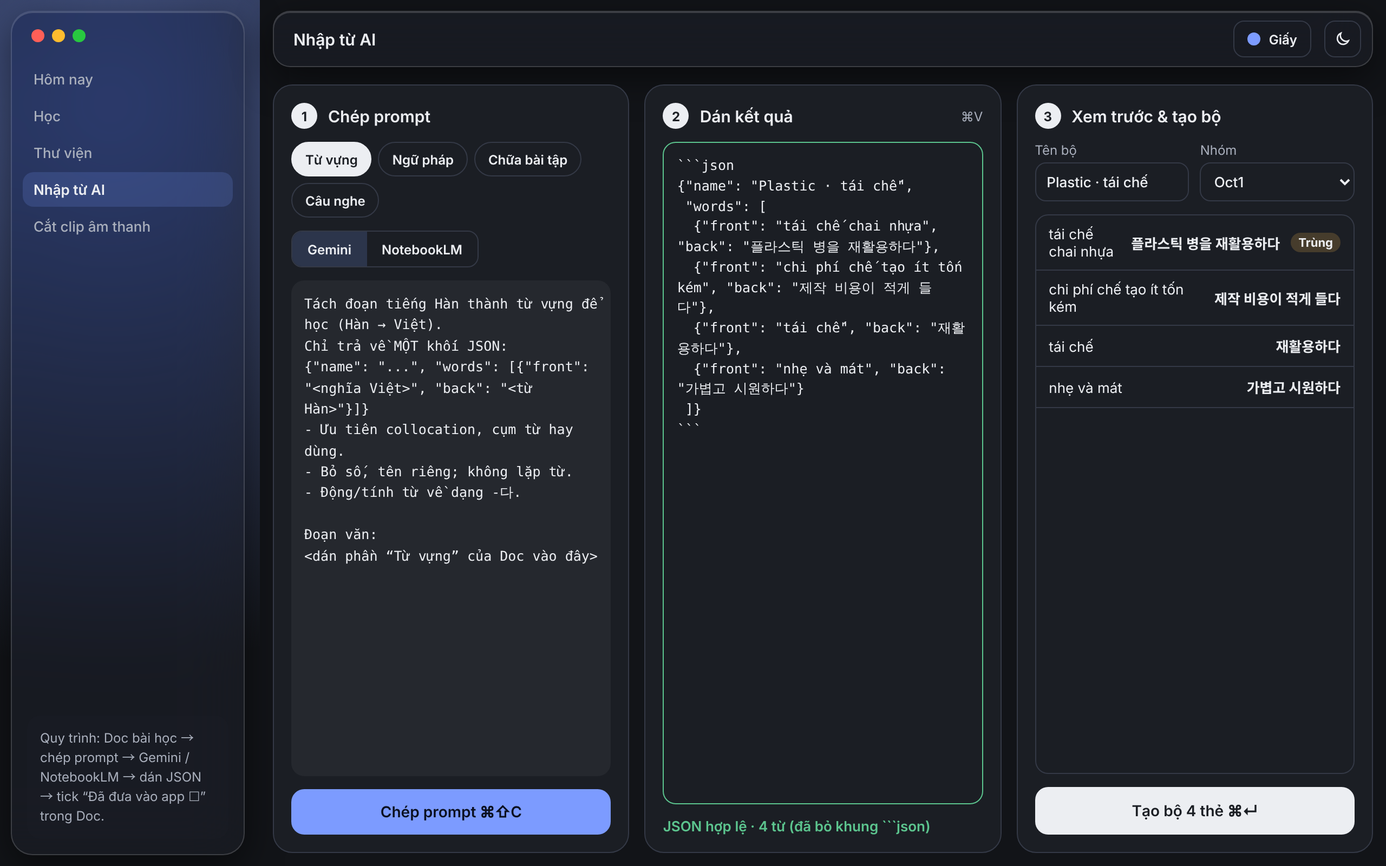
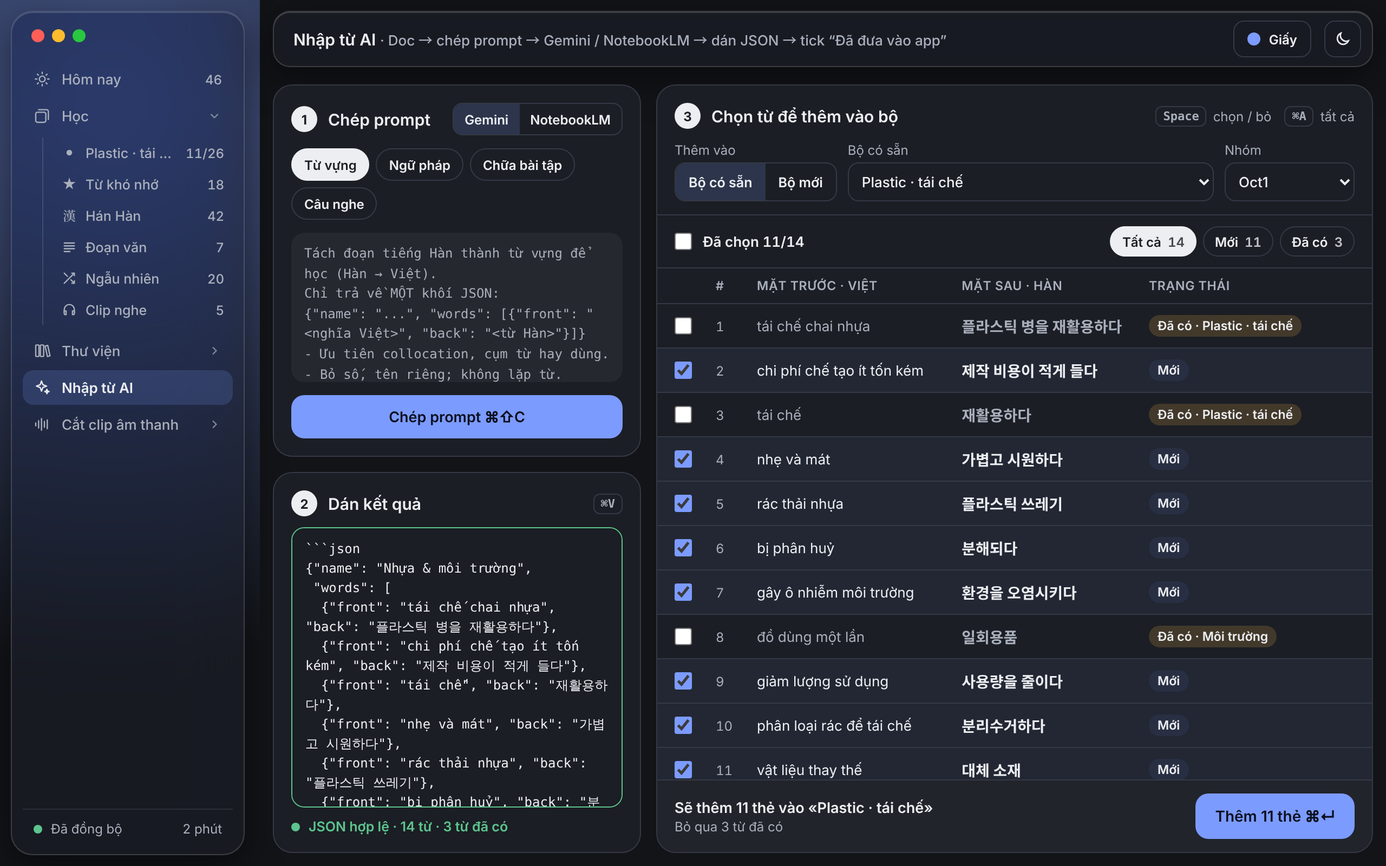
T2.39: cập nhật màn Nhập từ AI — tick chọn từ trước khi thêm vào bộ (#4)
Chụp lại Mac-Import (sáng/tối) + nguồn từ prototype mới; mô tả lại T2.39.

Claude-Session: https://claude.ai/code/session_01KeZ5oUxBK4cehoikW7uz6r

diff --git a/design/prototype/src/Mac-Import.dc.html b/design/prototype/src/Mac-Import.dc.html
@@ -15,72 +15,148 @@ a{color:inherit}
 button{cursor:pointer}
 .glass{background:var(--glass);backdrop-filter:blur(26px) saturate(180%);-webkit-backdrop-filter:blur(26px) saturate(180%);border:1px solid var(--gb);box-shadow:var(--sh),inset 0 1px 0 var(--gb)}
 .desk{background:radial-gradient(circle at 8% 12%,color-mix(in srgb,var(--ac) 50%,transparent),transparent 38%),radial-gradient(circle at 92% 88%,color-mix(in srgb,var(--flag) 40%,transparent),transparent 45%),var(--bg)}
-.nav{display:flex;align-items:center;gap:10px;padding:8px 10px;border-radius:10px;font-size:13px;font-weight:500;color:var(--ink2);text-decoration:none}
+.nav{position:relative;display:flex;align-items:center;gap:10px;width:100%;box-sizing:border-box;height:32px;padding:0 10px;border:0;border-radius:10px;background:transparent;font:500 13px Inter,'Noto Sans KR',sans-serif;color:var(--ink2);text-decoration:none;text-align:left}
+.nav svg{flex:none}
+.nav .l{flex:1;min-width:0;white-space:nowrap;overflow:hidden;text-overflow:ellipsis}
+.nav .n{font-size:12px;font-weight:500;font-variant-numeric:tabular-nums;color:var(--ink2)}
+.nav .chev{display:flex;color:var(--ink2);opacity:.7}
 .nav.on{background:color-mix(in srgb,var(--ac) 18%,transparent);color:var(--ink);font-weight:600}
+.sub{display:flex;flex-direction:column;gap:1px;margin:2px 0 6px 18px;padding-left:9px;border-left:1px solid color-mix(in srgb,var(--ink) 14%,transparent)}
+.sub .nav{height:28px;padding:0 8px;gap:8px;font-size:12.5px}
+.sub .g{width:14px;flex:none;display:flex;justify-content:center;font-size:12px;line-height:1}
+.sub .nav.on{background:color-mix(in srgb,var(--ink) 6%,transparent);color:var(--ink);font-weight:600}
+.sub .nav.on::before{content:"";position:absolute;left:-10px;top:7px;width:2px;height:14px;border-radius:2px;background:var(--ac)}
 .card{background:var(--sf);border:1px solid var(--line);border-radius:18px}
 .step{width:24px;height:24px;border-radius:99px;background:var(--ink);color:var(--sf);font-size:12px;font-weight:700;display:flex;align-items:center;justify-content:center}
+.kbd{font:600 11px ui-monospace,Menlo,monospace;padding:2px 6px;border-radius:6px;border:1px solid var(--line);color:var(--ink2)}
+.row{display:grid;grid-template-columns:28px 28px minmax(0,1.1fr) minmax(0,1fr) 190px;align-items:center;gap:10px;padding:0 16px;height:40px;border-bottom:1px solid var(--line);font-size:13px;cursor:pointer}
+.row.head{position:sticky;top:0;z-index:1;height:32px;background:var(--sf);cursor:default;font-size:11.5px;font-weight:600;color:var(--ink2);text-transform:uppercase;letter-spacing:.03em}
+.ck{width:16px;height:16px;margin:0;accent-color:var(--ac);cursor:pointer}
+.badge{display:inline-block;max-width:100%;box-sizing:border-box;padding:3px 8px;border-radius:999px;font-size:11.5px;font-weight:600;white-space:nowrap;overflow:hidden;text-overflow:ellipsis;vertical-align:middle}
+/* Chữ trong nút không bao giờ xuống dòng */
+button,.nav,.kbd,a[style*="height:"]{white-space:nowrap}
+button,a[style*="height:"]{flex-shrink:0}
+button>span{min-width:0;overflow:hidden;text-overflow:ellipsis}
 </style>
 </helmet>
 <div class="desk" style="{{vars}}; position: relative; width: 1280px; height: 800px; box-sizing: border-box; color: var(--ink); font-family: Inter, 'Noto Sans KR', sans-serif; overflow: hidden;">
   <div style="position: absolute; left: 240px; right: 0; top: 0; bottom: 0; background: var(--bg);"></div>
 
-  <nav aria-label="Điều hướng" class="glass" style="position: absolute; left: 10px; top: 10px; bottom: 10px; width: 216px; box-sizing: border-box; border-radius: 20px; padding: 14px 10px; display: flex; flex-direction: column; gap: 2px;">
+  <nav aria-label="Điều hướng" class="glass" style="position: absolute; left: 10px; top: 10px; bottom: 10px; width: 216px; box-sizing: border-box; border-radius: 20px; padding: 14px 10px; display: flex; flex-direction: column; gap: 2px; overflow: hidden;">
     <div style="display: flex; gap: 7px; padding: 2px 8px 16px;"><span style="width: 12px; height: 12px; border-radius: 99px; background: #FF5F57;"></span><span style="width: 12px; height: 12px; border-radius: 99px; background: #FEBC2E;"></span><span style="width: 12px; height: 12px; border-radius: 99px; background: #28C840;"></span></div>
-    <a class="nav" href="Mac-Today.dc.html">Hôm nay</a>
-    <a class="nav" href="Mac-Study.dc.html">Học</a>
-    <a class="nav" href="Mac-Library.dc.html">Thư viện</a>
-    <a class="nav on" href="Mac-Import.dc.html">Nhập từ AI</a>
-    <a class="nav" href="Mac-Audio.dc.html">Cắt clip âm thanh</a>
-    <div style="margin-top: auto; margin-inline: 4px; padding: 12px; border-radius: 12px; background: color-mix(in srgb, var(--sf) 55%, transparent); font-size: 12px; line-height: 1.5; color: var(--ink2);">Quy trình: Doc bài học → chép prompt → Gemini / NotebookLM → dán JSON → tick “Đã đưa vào app ☐” trong Doc.</div>
+    <a class="nav" href="Mac-Today.dc.html"><svg width="16" height="16" viewBox="0 0 24 24" fill="none" stroke="currentColor" stroke-width="1.8" stroke-linecap="round" stroke-linejoin="round" aria-hidden="true"><circle cx="12" cy="12" r="4"></circle><path d="M12 2.5v2M12 19.5v2M5.3 5.3l1.4 1.4M17.3 17.3l1.4 1.4M2.5 12h2M19.5 12h2M5.3 18.7l1.4-1.4M17.3 6.7l1.4-1.4"></path></svg><span class="l">Hôm nay</span><span class="n">46</span></a>
+    <a class="nav" href="Mac-Study.dc.html"><svg width="16" height="16" viewBox="0 0 24 24" fill="none" stroke="currentColor" stroke-width="1.8" stroke-linecap="round" stroke-linejoin="round" aria-hidden="true"><rect x="3" y="7" width="14" height="14" rx="2.5"></rect><path d="M7 3.5h11a2.5 2.5 0 0 1 2.5 2.5v11"></path></svg><span class="l">Học</span><span class="chev"><svg width="14" height="14" viewBox="0 0 24 24" fill="none" stroke="currentColor" stroke-width="2" stroke-linecap="round" stroke-linejoin="round" aria-hidden="true"><path d="M7 10l5 5 5-5"></path></svg></span></a>
+    <div class="sub" role="group" aria-label="Bộ đang học và bộ ảo">
+      <a class="nav" href="Mac-Study.dc.html"><span class="g"><svg width="14" height="14" viewBox="0 0 24 24" fill="none" stroke="currentColor" stroke-width="2" stroke-linecap="round" stroke-linejoin="round" aria-hidden="true"><circle cx="12" cy="12" r="3.5" fill="currentColor"></circle></svg></span><span class="l">Plastic · tái chế</span><span class="n">11/26</span></a>
+      <a class="nav" href="Mac-Study.dc.html"><span class="g">★</span><span class="l">Từ khó nhớ</span><span class="n">18</span></a>
+      <a class="nav" href="Mac-Study.dc.html"><span class="g"><span style="font-family: 'Noto Serif KR', serif;">漢</span></span><span class="l">Hán Hàn</span><span class="n">42</span></a>
+      <a class="nav" href="Mac-Study.dc.html"><span class="g"><svg width="14" height="14" viewBox="0 0 24 24" fill="none" stroke="currentColor" stroke-width="2" stroke-linecap="round" stroke-linejoin="round" aria-hidden="true"><path d="M4 6h16M4 10.5h16M4 15h16M4 19.5h9"></path></svg></span><span class="l">Đoạn văn</span><span class="n">7</span></a>
+      <a class="nav" href="Mac-Study.dc.html"><span class="g"><svg width="14" height="14" viewBox="0 0 24 24" fill="none" stroke="currentColor" stroke-width="2" stroke-linecap="round" stroke-linejoin="round" aria-hidden="true"><path d="M16 4h4v4M4 20L20 4M20 16v4h-4M14.5 14.5L20 20M4 4l5 5"></path></svg></span><span class="l">Ngẫu nhiên</span><span class="n">20</span></a>
+      <a class="nav" href="Mac-Study.dc.html"><span class="g"><svg width="14" height="14" viewBox="0 0 24 24" fill="none" stroke="currentColor" stroke-width="2" stroke-linecap="round" stroke-linejoin="round" aria-hidden="true"><path d="M4 17v-5a8 8 0 0 1 16 0v5"></path><path d="M20 18a2 2 0 0 1-2 2h-1v-6h3zM4 18a2 2 0 0 0 2 2h1v-6H4z"></path></svg></span><span class="l">Clip nghe</span><span class="n">5</span></a>
+    </div>
+    <a class="nav" href="Mac-Library.dc.html"><svg width="16" height="16" viewBox="0 0 24 24" fill="none" stroke="currentColor" stroke-width="1.8" stroke-linecap="round" stroke-linejoin="round" aria-hidden="true"><rect x="3" y="4" width="4.5" height="16" rx="1"></rect><rect x="9.5" y="4" width="4.5" height="16" rx="1"></rect><path d="M16 5.6l3.6-1 3.2 14.4-3.6 1z"></path></svg><span class="l">Thư viện</span><span class="chev"><svg width="14" height="14" viewBox="0 0 24 24" fill="none" stroke="currentColor" stroke-width="2" stroke-linecap="round" stroke-linejoin="round" aria-hidden="true"><path d="M10 7l5 5-5 5"></path></svg></span></a>
+    <a class="nav on" href="Mac-Import.dc.html" aria-current="page"><svg width="16" height="16" viewBox="0 0 24 24" fill="none" stroke="currentColor" stroke-width="1.8" stroke-linecap="round" stroke-linejoin="round" aria-hidden="true"><path d="M11 3l1.9 5.1L18 10l-5.1 1.9L11 17l-1.9-5.1L4 10l5.1-1.9z"></path><path d="M18.5 14.5l.8 2.2 2.2.8-2.2.8-.8 2.2-.8-2.2-2.2-.8 2.2-.8z"></path></svg><span class="l">Nhập từ AI</span></a>
+    <a class="nav" href="Mac-Audio.dc.html"><svg width="16" height="16" viewBox="0 0 24 24" fill="none" stroke="currentColor" stroke-width="1.8" stroke-linecap="round" stroke-linejoin="round" aria-hidden="true"><path d="M3 10v4M7 7v10M11 4v16M15 8v8M19 6v12"></path></svg><span class="l">Cắt clip âm thanh</span><span class="chev"><svg width="14" height="14" viewBox="0 0 24 24" fill="none" stroke="currentColor" stroke-width="2" stroke-linecap="round" stroke-linejoin="round" aria-hidden="true"><path d="M10 7l5 5-5 5"></path></svg></span></a>
+    <div style="margin-top: auto; padding: 10px 10px 2px; border-top: 1px solid color-mix(in srgb, var(--ink) 10%, transparent); font-size: 12px; color: var(--ink2); display: flex; align-items: center; gap: 8px;"><span style="width: 8px; height: 8px; border-radius: 99px; background: var(--ok);"></span><span style="flex: 1;">Đã đồng bộ</span><span style="font-variant-numeric: tabular-nums;">2 phút</span></div>
   </nav>
 
   <header class="glass" style="position: absolute; left: 252px; right: 12px; top: 10px; height: 52px; box-sizing: border-box; border-radius: 16px; padding: 0 10px 0 18px; display: flex; align-items: center; gap: 12px;">
-    <div style="flex: 1; font-size: 15px; font-weight: 600;">Nhập từ AI</div>
+    <div style="flex: 1; min-width: 0; font-size: 15px; font-weight: 600; white-space: nowrap; overflow: hidden; text-overflow: ellipsis;">Nhập từ AI <span style="font-size: 13px; font-weight: 500; color: var(--ink2);">· Doc → chép prompt → Gemini / NotebookLM → dán JSON → tick “Đã đưa vào app”</span></div>
     <button onClick="{{nextTheme}}" aria-label="Đổi theme" style="height: 34px; padding: 0 12px; border-radius: 10px; border: 1px solid var(--line); background: transparent; color: var(--ink); font: 600 12px Inter, sans-serif; display: flex; align-items: center; gap: 8px;"><span style="width: 12px; height: 12px; border-radius: 99px; background: var(--ac);"></span>{{themeName}}</button>
     <button onClick="{{toggleDark}}" aria-label="Sáng / tối" style="width: 34px; height: 34px; border-radius: 10px; border: 1px solid var(--line); background: transparent; color: var(--ink); display: flex; align-items: center; justify-content: center;"><svg width="16" height="16" viewBox="0 0 24 24" fill="none" stroke="currentColor" stroke-width="2" stroke-linecap="round" aria-hidden="true"><path d="M20 14.5A8 8 0 0 1 9.5 4a8 8 0 1 0 10.5 10.5z"></path></svg></button>
   </header>
 
-  <main style="position: absolute; left: 252px; right: 12px; top: 78px; bottom: 12px; display: grid; grid-template-columns: repeat(3, minmax(0, 1fr)); gap: 14px;">
-    <section class="card" style="padding: 16px; display: flex; flex-direction: column; gap: 12px; min-height: 0;">
-      <div style="display: flex; align-items: center; gap: 10px;"><span class="step">1</span><h2 style="margin: 0; font-size: 15px; font-weight: 600;">Chép prompt</h2></div>
-      <div role="group" aria-label="Loại nội dung" style="display: flex; flex-wrap: wrap; gap: 6px;">
-        <sc-for list="{{kinds}}" as="k" hint-placeholder-count="4">
-          <button onClick="{{k.pick}}" aria-pressed="{{k.on}}" style="height: 32px; padding: 0 12px; border-radius: 999px; border: 1px solid {{k.border}}; background: {{k.bg}}; color: {{k.ink}}; font: 600 12px Inter, sans-serif;">{{k.label}}</button>
-        </sc-for>
-      </div>
-      <div role="group" aria-label="Công cụ AI" style="display: flex; border: 1px solid var(--line); border-radius: 10px; overflow: hidden; align-self: flex-start;">
-        <sc-for list="{{tools}}" as="t" hint-placeholder-count="2">
-          <button onClick="{{t.pick}}" aria-pressed="{{t.on}}" style="height: 32px; padding: 0 14px; border: 0; background: {{t.bg}}; color: var(--ink); font: 600 12px Inter, sans-serif;">{{t.label}}</button>
-        </sc-for>
-      </div>
-      <div style="flex: 1; min-height: 0; overflow-y: auto; font-size: 12.5px; line-height: 1.55; background: color-mix(in srgb, var(--ink) 5%, var(--sf)); border-radius: 12px; padding: 12px; white-space: pre-line; font-family: ui-monospace, Menlo, monospace;">{{promptText}}</div>
-      <button onClick="{{copy}}" style="height: 42px; border-radius: 12px; border: 0; background: {{copyBg}}; color: var(--on); font: 600 14px Inter, sans-serif;">{{copyLabel}}</button>
-    </section>
+  <main style="position: absolute; left: 252px; right: 12px; top: 78px; bottom: 12px; display: grid; grid-template-columns: 340px minmax(0, 1fr); gap: 14px;">
+    <div style="display: flex; flex-direction: column; gap: 14px; min-height: 0;">
+      <section class="card" style="padding: 16px; display: flex; flex-direction: column; gap: 12px; flex: none;">
+        <div style="display: flex; align-items: center; gap: 10px;"><span class="step">1</span><h2 style="margin: 0; font-size: 15px; font-weight: 600;">Chép prompt</h2>
+          <div role="group" aria-label="Công cụ AI" style="margin-left: auto; display: flex; border: 1px solid var(--line); border-radius: 9px; overflow: hidden;">
+            <sc-for list="{{tools}}" as="t" hint-placeholder-count="2">
+              <button onClick="{{t.pick}}" aria-pressed="{{t.on}}" style="height: 28px; padding: 0 10px; border: 0; background: {{t.bg}}; color: var(--ink); font: 600 12px Inter, sans-serif;">{{t.label}}</button>
+            </sc-for>
+          </div>
+        </div>
+        <div role="group" aria-label="Loại nội dung" style="display: flex; flex-wrap: wrap; gap: 6px;">
+          <sc-for list="{{kinds}}" as="k" hint-placeholder-count="4">
+            <button onClick="{{k.pick}}" aria-pressed="{{k.on}}" style="height: 30px; padding: 0 11px; border-radius: 999px; border: 1px solid {{k.border}}; background: {{k.bg}}; color: {{k.ink}}; font: 600 12px Inter, sans-serif;">{{k.label}}</button>
+          </sc-for>
+        </div>
+        <div style="height: 118px; overflow-y: auto; font-size: 12px; line-height: 1.55; background: color-mix(in srgb, var(--ink) 5%, var(--sf)); border-radius: 12px; padding: 10px 12px; white-space: pre-line; font-family: ui-monospace, Menlo, monospace; color: var(--ink2);">{{promptText}}</div>
+        <button onClick="{{copy}}" style="height: 40px; border-radius: 12px; border: 0; background: {{copyBg}}; color: var(--on); font: 600 13.5px Inter, sans-serif;">{{copyLabel}}</button>
+      </section>
 
-    <section class="card" style="padding: 16px; display: flex; flex-direction: column; gap: 12px; min-height: 0;">
-      <div style="display: flex; align-items: center; gap: 10px;"><span class="step">2</span><h2 style="margin: 0; font-size: 15px; font-weight: 600;">Dán kết quả</h2><span style="margin-left: auto; font-size: 12px; color: var(--ink2);">⌘V</span></div>
-      <textarea spellcheck="false" aria-label="JSON từ AI" value="{{json}}" onChange="{{onJson}}" style="flex: 1; min-height: 0; box-sizing: border-box; border-radius: 12px; border: 1.5px solid {{jsonBorder}}; background: var(--sf); color: var(--ink); padding: 12px; font: 400 12.5px/1.5 ui-monospace, Menlo, monospace; resize: none;"></textarea>
-      <div style="font-size: 13px; font-weight: 600; color: {{jsonInk}};">{{jsonStatus}}</div>
-    </section>
+      <section class="card" style="padding: 16px; display: flex; flex-direction: column; gap: 10px; flex: 1; min-height: 0;">
+        <div style="display: flex; align-items: center; gap: 10px;"><span class="step">2</span><h2 style="margin: 0; font-size: 15px; font-weight: 600;">Dán kết quả</h2><span class="kbd" style="margin-left: auto;">⌘V</span></div>
+        <textarea spellcheck="false" aria-label="JSON từ AI" value="{{json}}" onChange="{{onJson}}" style="flex: 1; min-height: 0; box-sizing: border-box; border-radius: 12px; border: 1.5px solid {{jsonBorder}}; background: var(--sf); color: var(--ink); padding: 10px 12px; font: 400 12px/1.5 ui-monospace, Menlo, monospace; resize: none;"></textarea>
+        <div style="display: flex; align-items: center; gap: 8px; font-size: 12.5px; font-weight: 600; color: {{jsonInk}};"><span style="width: 8px; height: 8px; border-radius: 99px; background: {{jsonInk}}; flex: none;"></span>{{jsonStatus}}</div>
+      </section>
+    </div>
 
-    <section class="card" style="padding: 16px; display: flex; flex-direction: column; gap: 12px; min-height: 0;">
-      <div style="display: flex; align-items: center; gap: 10px;"><span class="step">3</span><h2 style="margin: 0; font-size: 15px; font-weight: 600;">Xem trước &amp; tạo bộ</h2></div>
-      <div style="display: grid; grid-template-columns: repeat(2, minmax(0, 1fr)); gap: 10px;">
-        <label style="display: flex; flex-direction: column; gap: 4px; font-size: 12px; color: var(--ink2);">Tên bộ
-          <input value="{{deckName}}" readonly style="height: 36px; box-sizing: border-box; border-radius: 10px; border: 1px solid var(--line); background: var(--sf); color: var(--ink); padding: 0 10px; font: 500 13px Inter, sans-serif;"></label>
-        <label style="display: flex; flex-direction: column; gap: 4px; font-size: 12px; color: var(--ink2);">Nhóm
-          <select style="height: 36px; border-radius: 10px; border: 1px solid var(--line); background: var(--sf); color: var(--ink); padding: 0 8px; font: 500 13px Inter, sans-serif;"><option>Oct1</option><option>Sep3</option></select></label>
+    <section class="card" style="display: flex; flex-direction: column; min-height: 0; overflow: hidden;">
+      <div style="padding: 16px 16px 12px; display: flex; flex-direction: column; gap: 12px; border-bottom: 1px solid var(--line);">
+        <div style="display: flex; align-items: center; gap: 10px;"><span class="step">3</span><h2 style="margin: 0; font-size: 15px; font-weight: 600;">Chọn từ để thêm vào bộ</h2>
+          <span style="margin-left: auto; display: flex; align-items: center; gap: 6px; font-size: 12px; color: var(--ink2);"><span class="kbd">Space</span>chọn / bỏ<span class="kbd" style="margin-left: 6px;">⌘A</span>tất cả</span>
+        </div>
+        <div style="display: flex; align-items: flex-end; gap: 10px;">
+          <div style="display: flex; flex-direction: column; gap: 4px;">
+            <span style="font-size: 12px; color: var(--ink2);">Thêm vào</span>
+            <div role="group" aria-label="Đích" style="display: flex; border: 1px solid var(--line); border-radius: 10px; overflow: hidden;">
+              <sc-for list="{{targets}}" as="g" hint-placeholder-count="2">
+                <button onClick="{{g.pick}}" aria-pressed="{{g.on}}" style="height: 34px; padding: 0 12px; border: 0; background: {{g.bg}}; color: var(--ink); font: 600 12.5px Inter, sans-serif;">{{g.label}}</button>
+              </sc-for>
+            </div>
+          </div>
+          <sc-if value="{{isNew}}" hint-placeholder-val="{{true}}">
+            <label style="flex: 1; min-width: 0; display: flex; flex-direction: column; gap: 4px; font-size: 12px; color: var(--ink2);">Tên bộ mới
+              <input value="{{deckName}}" onChange="{{onDeckName}}" style="height: 36px; box-sizing: border-box; border-radius: 10px; border: 1px solid var(--line); background: var(--sf); color: var(--ink); padding: 0 10px; font: 500 13px Inter, sans-serif;"></label>
+          </sc-if>
+          <sc-if value="{{isExisting}}" hint-placeholder-val="{{false}}">
+            <label style="flex: 1; min-width: 0; display: flex; flex-direction: column; gap: 4px; font-size: 12px; color: var(--ink2);">Bộ có sẵn
+              <select value="{{existing}}" onChange="{{onExisting}}" style="height: 36px; border-radius: 10px; border: 1px solid var(--line); background: var(--sf); color: var(--ink); padding: 0 8px; font: 500 13px Inter, sans-serif;"><option>Plastic · tái chế</option><option>Môi trường</option><option>Hán Hàn</option></select></label>
+          </sc-if>
+          <label style="width: 120px; display: flex; flex-direction: column; gap: 4px; font-size: 12px; color: var(--ink2);">Nhóm
+            <select style="height: 36px; border-radius: 10px; border: 1px solid var(--line); background: var(--sf); color: var(--ink); padding: 0 8px; font: 500 13px Inter, sans-serif;"><option>Oct1</option><option>Sep3</option></select></label>
+        </div>
       </div>
-      <ul style="list-style: none; margin: 0; padding: 0; border: 1px solid var(--line); border-radius: 12px; overflow-y: auto; flex: 1; min-height: 0;">
-        <sc-for list="{{preview}}" as="p" hint-placeholder-count="4">
-          <li style="display: flex; align-items: center; gap: 10px; padding: 9px 12px; border-bottom: 1px solid var(--line); font-size: 13px;">
-            <span style="flex: 1; min-width: 0;">{{p.front}}</span>
-            <span style="font-family: 'Noto Sans KR', sans-serif; font-weight: 600;">{{p.back}}</span>
-            <sc-if value="{{p.dup}}" hint-placeholder-val="{{false}}"><span style="padding: 2px 7px; border-radius: 999px; background: color-mix(in srgb, var(--flag) 20%, var(--sf)); font-size: 11px; font-weight: 700;">Trùng</span></sc-if>
-          </li>
+
+      <div style="display: flex; align-items: center; gap: 12px; padding: 10px 16px; border-bottom: 1px solid var(--line);">
+        <label style="display: flex; align-items: center; gap: 10px; font-size: 13px; font-weight: 600; cursor: pointer;">
+          <input type="checkbox" class="ck" checked="{{allOn}}" onChange="{{toggleAll}}" aria-label="Chọn tất cả từ đang hiện">
+          <span>Đã chọn <span style="font-variant-numeric: tabular-nums;">{{nSel}}/{{nAll}}</span></span>
+        </label>
+        <div role="group" aria-label="Lọc" style="margin-left: auto; display: flex; gap: 6px;">
+          <sc-for list="{{filters}}" as="f" hint-placeholder-count="3">
+            <button onClick="{{f.pick}}" aria-pressed="{{f.on}}" style="height: 28px; padding: 0 10px; border-radius: 999px; border: 1px solid {{f.border}}; background: {{f.bg}}; color: {{f.ink}}; font: 600 12px Inter, sans-serif; display: flex; align-items: center; gap: 6px;">{{f.label}}<span style="font-variant-numeric: tabular-nums; opacity: .8;">{{f.n}}</span></button>
+          </sc-for>
+        </div>
+      </div>
+
+      <div style="flex: 1; min-height: 0; overflow-y: auto;">
+        <div class="row head"><span></span><span>#</span><span>Mặt trước · Việt</span><span>Mặt sau · Hàn</span><span>Trạng thái</span></div>
+        <sc-for list="{{rows}}" as="p" hint-placeholder-count="8">
+          <label class="row" style="background: {{p.bg}};">
+            <input type="checkbox" class="ck" checked="{{p.checked}}" onChange="{{p.toggle}}" aria-label="Chọn {{p.back}}">
+            <span style="font-size: 12px; color: var(--ink2); font-variant-numeric: tabular-nums;">{{p.num}}</span>
+            <span style="min-width: 0; overflow: hidden; text-overflow: ellipsis; white-space: nowrap; color: {{p.ink}};">{{p.front}}</span>
+            <span style="min-width: 0; overflow: hidden; text-overflow: ellipsis; white-space: nowrap; font-family: 'Noto Sans KR', sans-serif; font-weight: 600; font-size: 14px; color: {{p.ink}};">{{p.back}}</span>
+            <span style="min-width: 0;">
+              <sc-if value="{{p.isDup}}" hint-placeholder-val="{{false}}"><span class="badge" style="background: color-mix(in srgb, var(--flag) 18%, var(--sf)); color: var(--ink);">Đã có · {{p.dupIn}}</span></sc-if>
+              <sc-if value="{{p.isNew}}" hint-placeholder-val="{{true}}"><span class="badge" style="background: color-mix(in srgb, var(--ac) 14%, var(--sf)); color: var(--ink);">Mới</span></sc-if>
+            </span>
+          </label>
         </sc-for>
-      </ul>
-      <button onClick="{{create}}" style="height: 44px; border-radius: 12px; border: 0; background: {{createBg}}; color: {{createInk}}; font: 600 14px Inter, sans-serif;">{{createLabel}}</button>
+        <sc-if value="{{empty}}" hint-placeholder-val="{{false}}">
+          <div style="padding: 48px 16px; text-align: center; font-size: 13px; color: var(--ink2);">{{emptyText}}</div>
+        </sc-if>
+      </div>
+
+      <div style="display: flex; align-items: center; gap: 14px; padding: 12px 16px; border-top: 1px solid var(--line); background: color-mix(in srgb, var(--ink) 3%, var(--sf));">
+        <div style="flex: 1; min-width: 0; display: flex; flex-direction: column; gap: 2px;">
+          <div style="font-size: 13.5px; font-weight: 600; white-space: nowrap; overflow: hidden; text-overflow: ellipsis;">{{summary}}</div>
+          <div style="font-size: 12px; color: var(--ink2); white-space: nowrap; overflow: hidden; text-overflow: ellipsis;">{{summary2}}</div>
+        </div>
+        <button onClick="{{create}}" style="height: 42px; padding: 0 18px; border-radius: 12px; border: 0; background: {{createBg}}; color: {{createInk}}; font: 600 14px Inter, sans-serif;">{{createLabel}}</button>
+      </div>
     </section>
   </main>
 </div>
@@ -90,7 +166,8 @@ class Component extends DCLogic {
   constructor(props) {
     super(props);
     this.state = { theme: 'paper', dark: false, kind: 'vocab', tool: 'gemini', copied: false, created: false,
-      json: '```json\n{"name": "Plastic · tái chế",\n "words": [\n  {"front": "tái chế chai nhựa", "back": "플라스틱 병을 재활용하다"},\n  {"front": "chi phí chế tạo ít tốn kém", "back": "제작 비용이 적게 들다"},\n  {"front": "tái chế", "back": "재활용하다"},\n  {"front": "nhẹ và mát", "back": "가볍고 시원하다"}\n ]}\n```' };
+      target: 'existing', existing: 'Plastic · tái chế', deckName: null, filter: 'all', sel: {},
+      json: '```json\n{"name": "Nhựa & môi trường",\n "words": [\n  {"front": "tái chế chai nhựa", "back": "플라스틱 병을 재활용하다"},\n  {"front": "chi phí chế tạo ít tốn kém", "back": "제작 비용이 적게 들다"},\n  {"front": "tái chế", "back": "재활용하다"},\n  {"front": "nhẹ và mát", "back": "가볍고 시원하다"},\n  {"front": "rác thải nhựa", "back": "플라스틱 쓰레기"},\n  {"front": "bị phân huỷ", "back": "분해되다"},\n  {"front": "gây ô nhiễm môi trường", "back": "환경을 오염시키다"},\n  {"front": "đồ dùng một lần", "back": "일회용품"},\n  {"front": "giảm lượng sử dụng", "back": "사용량을 줄이다"},\n  {"front": "phân loại rác để tái chế", "back": "분리수거하다"},\n  {"front": "vật liệu thay thế", "back": "대체 소재"},\n  {"front": "thân thiện với môi trường", "back": "친환경적이다"},\n  {"front": "ống hút giấy", "back": "종이 빨대"},\n  {"front": "bền, chắc chắn", "back": "튼튼하다"}\n ]}\n```' };
     this.TH = {
       paper: ['Giấy', { bg: '#F5F4F0', sf: '#FFFFFF', ink: '#191C24', ink2: '#4C5260', ac: '#2B54C9', line: '#DDDBD3', on: '#FFFFFF' }, { bg: '#121418', sf: '#1B1E24', ink: '#ECEEF2', ink2: '#A9AFBC', ac: '#7C9BFF', line: '#343946', on: '#0B1020' }],
       ink: ['Mực đêm', { bg: '#EEF0F6', sf: '#FFFFFF', ink: '#141826', ink2: '#4A5068', ac: '#5B4BD6', line: '#D7DAE6', on: '#FFFFFF' }, { bg: '#0E1020', sf: '#171A2E', ink: '#E8E9F5', ink2: '#A3A7C4', ac: '#A99BFF', line: '#2B2F4A', on: '#120E2A' }],
@@ -122,27 +199,59 @@ class Component extends DCLogic {
       listen: 'Từ phần chép lời dưới đây, mỗi câu khó nghe một thẻ:\nfront = nghĩa Việt, back = câu Hàn nguyên văn,\nhint = 2 âm tiết đầu. typeAnswer: false.'
     }[s.kind];
     const r = this.parse(s.json);
-    const known = new Set(['플라스틱 병을 재활용하다']);
-    const n = r.words.length;
+    // Từ đã có trong thư viện (Hàn → bộ chứa nó). Trùng mặc định KHÔNG tick.
+    const known = { '플라스틱 병을 재활용하다': 'Plastic · tái chế', '재활용하다': 'Plastic · tái chế', '일회용품': 'Môi trường' };
+    const all = r.words.map((w, i) => {
+      const key = w.back.trim(); const dupIn = known[key] || '';
+      const checked = s.sel[key] !== undefined ? s.sel[key] : !dupIn;
+      return { i, key, front: w.front, back: w.back, dupIn, checked };
+    });
+    const nAll = all.length, nSel = all.filter(x => x.checked).length, nDup = all.filter(x => x.dupIn).length;
+    const shown = all.filter(x => s.filter === 'all' || (s.filter === 'new' ? !x.dupIn : !!x.dupIn));
+    const allOn = shown.length > 0 && shown.every(x => x.checked);
+    const isNew = s.target === 'new';
+    const deckName = s.deckName !== null ? s.deckName : (r.name || 'Bộ mới');
+    const targetName = isNew ? deckName : s.existing;
+    const nSkipDup = all.filter(x => x.dupIn && !x.checked).length;
+    const nSkipOther = all.filter(x => !x.dupIn && !x.checked).length;
+    const ready = nSel > 0 && !r.error;
+    const pill = (on) => ({ bg: on ? t.ink : 'transparent', ink: on ? t.sf : t.ink, border: on ? t.ink : t.line });
+    const seg = (on) => on ? `color-mix(in srgb, ${t.ac} 18%, ${t.sf})` : 'transparent';
     return {
       vars: `--bg:${t.bg};--sf:${t.sf};--ink:${t.ink};--ink2:${t.ink2};--ac:${t.ac};--line:${t.line};--on:${t.on};--ok:${t.ok};--bad:${t.bad};--flag:${t.flag};--glass:${t.glass};--gb:${t.gb};--sh:${t.sh}`,
       themeName: this.TH[s.theme][0],
       nextTheme: () => go({ theme: keys[(keys.indexOf(s.theme) + 1) % keys.length] }),
       toggleDark: () => go({ dark: !s.dark }),
-      kinds: kinds.map(([k, label]) => ({ label, on: String(s.kind === k), bg: s.kind === k ? t.ink : 'transparent', ink: s.kind === k ? t.sf : t.ink, border: s.kind === k ? t.ink : t.line, pick: () => go({ kind: k, copied: false }) })),
-      tools: [['gemini', 'Gemini'], ['nlm', 'NotebookLM']].map(([k, label]) => ({ label, on: String(s.tool === k), bg: s.tool === k ? `color-mix(in srgb, ${t.ac} 18%, ${t.sf})` : 'transparent', pick: () => go({ tool: k, copied: false }) })),
+      kinds: kinds.map(([k, label]) => Object.assign({ label, on: String(s.kind === k), pick: () => go({ kind: k, copied: false }) }, pill(s.kind === k))),
+      tools: [['gemini', 'Gemini'], ['nlm', 'NotebookLM']].map(([k, label]) => ({ label, on: String(s.tool === k), bg: seg(s.tool === k), pick: () => go({ tool: k, copied: false }) })),
       promptText: body + '\n\n' + src,
       copy: () => go({ copied: true }),
       copyLabel: s.copied ? 'Đã chép — dán vào ' + (s.tool === 'nlm' ? 'NotebookLM' : 'Gemini') : 'Chép prompt  ⌘⇧C',
       copyBg: s.copied ? t.ok : t.ac,
-      json: s.json, onJson: (e) => go({ json: e.target.value, created: false }),
+      json: s.json, onJson: (e) => go({ json: e.target.value, created: false, sel: {} }),
       jsonBorder: r.error ? t.bad : t.ok, jsonInk: r.error ? t.bad : t.ok,
-      jsonStatus: r.error ? r.error : 'JSON hợp lệ · ' + n + ' từ (đã bỏ khung ```json)',
-      deckName: r.name || 'Bộ mới',
-      preview: r.words.slice(0, 12).map(w => ({ front: w.front, back: w.back, dup: known.has(w.back.trim()) })),
-      create: () => { if (n && !r.error) go({ created: true }); },
-      createLabel: s.created ? 'Đã tạo · đang đồng bộ sang iPhone' : (n && !r.error ? 'Tạo bộ ' + n + ' thẻ  ⌘↵' : 'Chưa tạo được'),
-      createBg: s.created ? t.ok : (n && !r.error ? t.ink : t.line), createInk: s.created ? t.sf : (n && !r.error ? t.sf : t.ink2)
+      jsonStatus: r.error ? r.error : 'JSON hợp lệ · ' + nAll + ' từ · ' + nDup + ' từ đã có',
+      targets: [['existing', 'Bộ có sẵn'], ['new', 'Bộ mới']].map(([k, label]) => ({ label, on: String(s.target === k), bg: seg(s.target === k), pick: () => go({ target: k, created: false }) })),
+      isNew, isExisting: !isNew,
+      deckName, onDeckName: (e) => go({ deckName: e.target.value, created: false }),
+      existing: s.existing, onExisting: (e) => go({ existing: e.target.value, created: false }),
+      filters: [['all', 'Tất cả', nAll], ['new', 'Mới', nAll - nDup], ['dup', 'Đã có', nDup]].map(([k, label, n]) => Object.assign({ label, n: String(n), on: String(s.filter === k), pick: () => go({ filter: k }) }, pill(s.filter === k))),
+      allOn, nSel: String(nSel), nAll: String(nAll),
+      toggleAll: () => { const sel = Object.assign({}, s.sel); shown.forEach(x => { sel[x.key] = !allOn; }); go({ sel, created: false }); },
+      rows: shown.map(x => ({
+        num: String(x.i + 1), front: x.front, back: x.back, checked: x.checked,
+        isDup: !!x.dupIn, isNew: !x.dupIn, dupIn: x.dupIn,
+        bg: x.checked ? `color-mix(in srgb, ${t.ac} 7%, ${t.sf})` : 'transparent',
+        ink: x.checked ? t.ink : t.ink2,
+        toggle: () => go({ sel: Object.assign({}, s.sel, { [x.key]: !x.checked }), created: false })
+      })),
+      empty: shown.length === 0,
+      emptyText: r.error ? 'Dán JSON hợp lệ ở bước 2 để xem trước các từ.' : 'Không có từ nào trong bộ lọc này.',
+      summary: s.created ? 'Đã thêm ' + nSel + ' thẻ vào «' + targetName + '»' : (nSel ? 'Sẽ thêm ' + nSel + ' thẻ vào «' + targetName + '»' : 'Chưa chọn từ nào'),
+      summary2: s.created ? 'Nhớ tick “Đã đưa vào app” trong Doc · đang đồng bộ sang iPhone' : 'Bỏ qua ' + nSkipDup + ' từ đã có' + (nSkipOther ? ' · ' + nSkipOther + ' từ bỏ tick' : '') + (isNew ? ' · tạo bộ mới' : ''),
+      create: () => { if (ready) go({ created: true }); },
+      createLabel: s.created ? 'Đã thêm ✓' : (ready ? 'Thêm ' + nSel + ' thẻ  ⌘↵' : 'Thêm thẻ'),
+      createBg: s.created ? t.ok : (ready ? t.ac : t.line), createInk: s.created ? t.sf : (ready ? t.on : t.ink2)
     };
   }
 }

diff --git a/docs/tasks.md b/docs/tasks.md
@@ -270,8 +270,16 @@ Ký hiệu đường dẫn: `HC/` = `apple/Packages/HanCore/`, `DS/` = `apple/Pa
 - [ ] **T2.38 · Màn Thư viện** — nhóm → bộ → `Table` thẻ; sửa tại chỗ (PATCH), thêm thẻ `⌘N`, xoá, đổi
   tên/loại/nguồn/mô tả bộ; cần mạng, offline báo lỗi không mất chữ đang sửa.
   - Phụ thuộc: T2.32
-- [ ] **T2.39 · Màn Nhập từ AI** — theo artboard: chọn loại + công cụ → `⌘⇧C` chép `Prompts.text`; dán JSON
-  → `DeckImport` báo lỗi trực tiếp; xem trước + "Trùng"; chọn nhóm; `⌘↵` tạo bộ (`POST /decks`).
+- [ ] **T2.39 · Màn Nhập từ AI** — theo artboard (thiết kế lại, issue #4): trái 340 pt = bước 1 chọn loại +
+  công cụ → `⌘⇧C` chép `Prompts.text` + bước 2 dán JSON → `DeckImport` báo lỗi trực tiếp; phải = bước 3.
+  - Đọc trước: `design/prototype/screens/Mac-Import-{light,dark}.png`, `design/prototype/src/Mac-Import.dc.html`
+  - Đích: "Bộ có sẵn" (chọn bộ) / "Bộ mới" (tên mặc định = `name` trong JSON) + chọn nhóm.
+  - Bảng xem trước **có ô tick từng từ**: # · trước · sau · "Mới"/"Đã có · ‹bộ›". Bấm cả dòng để tick.
+    Từ trùng (`duplicatesOf`, so qua `AnswerMatcher`, toàn thư viện) **mặc định bỏ tick**. Ô "Đã chọn x/y"
+    chọn/bỏ tất cả từ đang hiện; lọc Tất cả / Mới / Đã có. Sửa JSON → lựa chọn về mặc định.
+  - Phím: `Space` tick dòng focus, `⌘A` chọn tất cả, `⌘↵` thêm (tắt khi 0 từ được chọn).
+  - Chỉ gửi từ đã tick: bộ mới `POST /decks`, bộ có sẵn `POST /decks/:id/cards`. Xong → nhắc tick
+    "Đã đưa vào app" trong Doc. Logic chọn (mặc định, đếm, lọc) để trong `HanCore` + test.
   - Xong khi: 👤 chạy trọn quy trình `docs/drive-setup.md` §3 với một bài thật.
   - Phụ thuộc: T2.38
 - [ ] **T2.40 · Command Palette `⌘K`** — overlay kính, tìm không dấu; lệnh: Theme: <6 theme>, bật/tắt tối,
